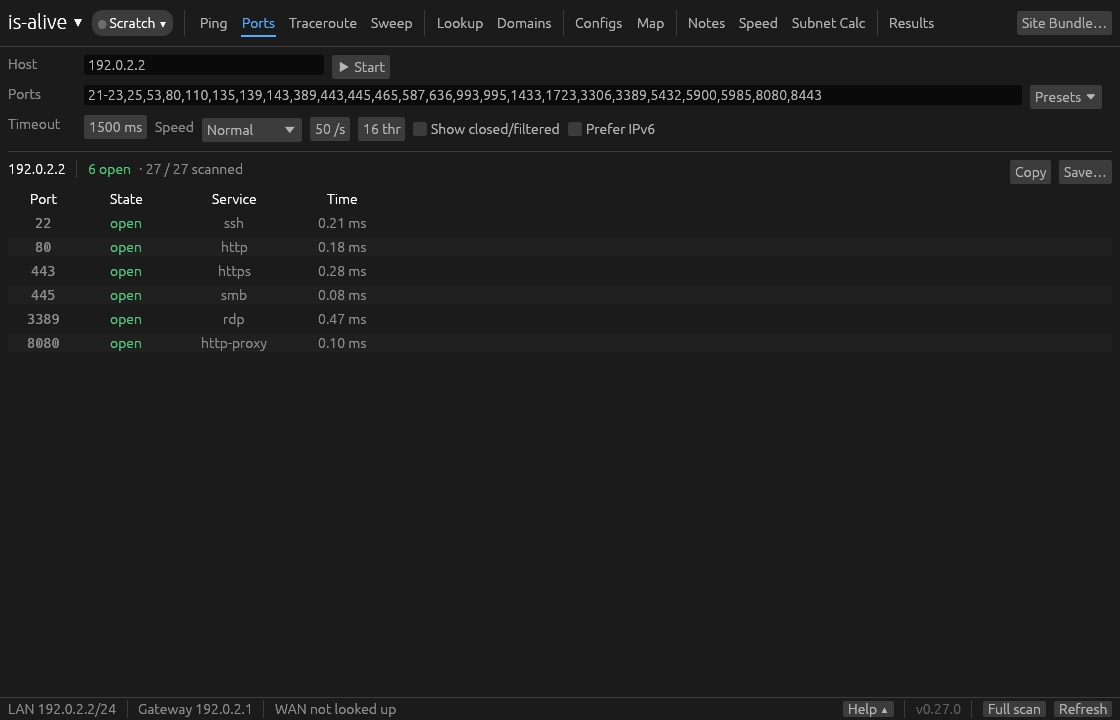
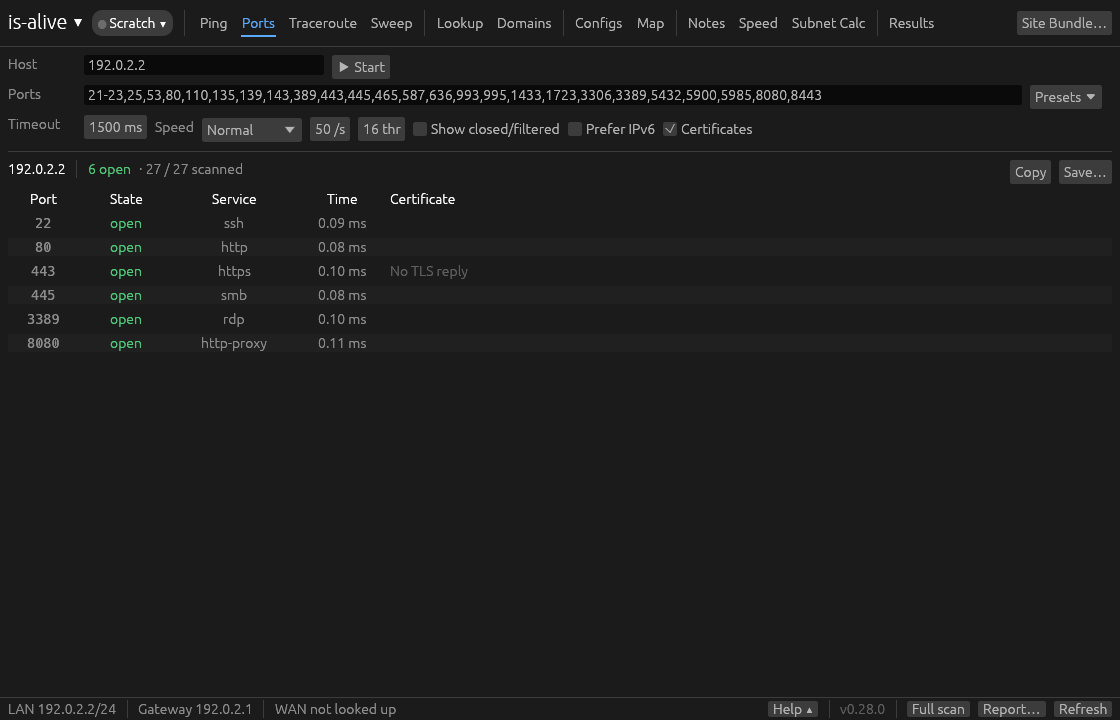
0.28.0: feature release: the manual's screenshots remade, the Site Report window among them
A full release for what 0.27.x shipped (sites, Wake-on-LAN, TLS
certificates in Ports, compare with the last visit, the Site report,
Results kept with each site, device names from NetBIOS and mDNS).

- Manual screenshots remade with scripts/manual-shots.sh --here: window,
  port-check (now with its Certificate column), traceroute, subnet-sweep,
  config-export and its empty state, the five map pictures, notes,
  subnet-calc, settings and site-bundle. The network pictures (ping,
  dns-lookup, advanced, speed-test, results) stay as they were: the cloud
  sandbox has no ping, DNS or speed test.
- New: site-report, a scene in the manual tour and a picture in the
  manual's Site report section, built into the app's manual.
- Version mentions: the manual describes 0.28.0; the follow-along guide
  says v0.28.0 or newer.
- CLAUDE.md: the owner keeps the source skills; Claude keeps the bundled
  copies current.

Claude-Session: https://claude.ai/code/session_01QL2rULS8HaDwNvJrFRJ8sb

diff --git a/src/shots.rs b/src/shots.rs
@@ -328,10 +328,19 @@ const MANUAL: &[Scene] = &[
         at_once,
     ),
     scene(
+        "site-report",
+        Tab::Map,
+        |a, _| {
+            a.bundle.open = false;
+            a.report.open = true;
+        },
+        at_once,
+    ),
+    scene(
         "map-light",
         Tab::Map,
         |a, ctx| {
-            a.bundle.open = false;
+            a.report.open = false;
             theme::apply(ctx, theme::Theme::Light);
         },
         at_once,

diff --git a/src/manual.rs b/src/manual.rs
@@ -38,6 +38,7 @@ const PICTURES: &[(&str, &[u8])] = pictures![
     "settings",
     "map-light",
     "site-bundle",
+    "site-report",
 ];
 
 pub struct Chapter {

diff --git a/docs/manual/MANUAL.md b/docs/manual/MANUAL.md
@@ -8,7 +8,7 @@ end.
 
 A field guide to **is-alive**, the portable network tester for site visits: what every tab does, what every control means, worked examples with real numbers, and what to do when something doesn't look right.
 
-This manual describes **is-alive 0.27.0**, and is built into the app: **Help** at the bottom right, then **Manual**, or **F1** for the chapter about the tab you're on. It works with no network. The [wiki](https://github.com/hammerknife404/is-alive/wiki) has a shorter page per tab, and the [follow-along guide](../../FOLLOW-ALONG.md) is a 20-minute walk-through for people new to networking.
+This manual describes **is-alive 0.28.0**, and is built into the app: **Help** at the bottom right, then **Manual**, or **F1** for the chapter about the tab you're on. It works with no network. The [wiki](https://github.com/hammerknife404/is-alive/wiki) has a shorter page per tab, and the [follow-along guide](../../FOLLOW-ALONG.md) is a 20-minute walk-through for people new to networking.
 
 ## Contents
 
@@ -162,7 +162,7 @@ A **Host** box (Ping, Port Check, Traceroute) takes any of these, so you can pas
 - **WAN** is the public address the internet sees for this network. It's looked up when the app opens (one DNS query to OpenDNS), on **Refresh**, and by a **Full scan**. If you turned that off in Settings it says *not looked up*.
 - **Help ▴** opens the Help menu. First what's built into the app, so it works with no network: **This tab** (the manual's chapter about the tab you're on; **F1** does the same), the whole **Manual**, **Troubleshooting**, and **Keyboard and mouse**. Then, online in your browser: the **Wiki**, the **Follow-along guide**, **Release notes**, **Report a problem** (a new GitHub issue with the version and system filled in; nothing is sent until you submit it there) and **Source on GitHub**.
 - **The manual** opens in a window over the tab: the chapters down the left, **Find** above them to list only the chapters that mention a word. Leave it open beside the tab while you work; **×** closes it.
-- **v0.25.0** is the version you're running: worth including when you report a problem.
+- **v0.28.0** is the version you're running: worth including when you report a problem.
 - **Full scan** runs a quick health check of this network (below).
 - **Report…** opens the [Site report](#site-report): one web page documenting the visit.
 - **Refresh** reads the LAN and gateway again and looks up the WAN address, for when you've plugged into a different network.
@@ -185,6 +185,8 @@ In under a minute you know whether a problem is this computer, the local network
 When every check is done and the sweep found something, the **Map** tab glows for a few seconds (its sweep is on the map now), then keeps a small ring until you open it. If the window is in the background, the glow waits until you come back to it. With **Animate** off (Settings) it lights up briefly instead of pulsing.
 
 ### Site report
+
+![The Site Report window over the Contoso Health example: the title, then Map, Findings, Changes since, Infrastructure, Clients, Tech notes and Test results, each saying what it holds, and Save report…](img/site-report.png)
 
 **Report…** (bottom right, beside **Full scan**) puts the visit on one web page: for the client, the ticket or the next technician. It's made from what the other tabs already hold, so a Full scan, a backup opened in Config Export and a few notes are enough for a complete document. It opens in any browser, and the browser's **Print → Save as PDF** makes the PDF.
 

diff --git a/CLAUDE.md b/CLAUDE.md
@@ -21,5 +21,5 @@ The owner wants point releases: each finished change ships on its own, not in a 
 
 - **Same PR.** A change to what a bundle carries or means updates `skills/` in that PR: a file in the zip, a manifest key, an `inventory.json` field or what one now holds (a MAC that can come from somewhere new), what `results.json` spans, or what is-alive reads back from a `/mapnetwork` map. Also update the matching `*_WHAT` text in `src/tools/bundle.rs` (the manifest's description of each file) and the inventory's `notes` in `src/tools/sweep.rs`.
 - **Tests hold the line.** `the_bundled_mapnetwork_skill_knows_every_file` (src/bundle.rs) fails when a bundle file or manifest key isn't named in `skills/mapnetwork/SKILL.md`, and the inventory test in src/tools/sweep.rs fails when a host field isn't. Explain new things there; don't loosen the tests. `skills/mapnetwork/scripts/test_engine_contract.py` (CI) covers the map engine.
-- **The source copy too.** `skills/` is a scrubbed copy that `scripts/sync-skills.py` makes from the owner's own skills, so an edit made only here is undone by the next sync. Hand the owner the same edits as a patch for the source skill (`git diff --relative=skills/<name> origin/main -- skills/<name>`), with the command to apply it.
+- **The bundled copies are Claude's to keep current; the owner keeps the source.** `skills/` is a scrubbed copy that `scripts/sync-skills.py` makes from the owner's own skills. The owner patches their source copy themselves; don't hand them patches for it unless they ask. If a sync brings older text back into `skills/`, the tests above fail: restore the bundled text from git (and point it out), don't loosen the tests.
 - **Scrub.** Text added to `skills/` is public: no real site, client or person names, no full MACs (fictional names and documentation addresses only).

diff --git a/FOLLOW-ALONG.md b/FOLLOW-ALONG.md
@@ -15,7 +15,7 @@ This guide is for anyone attending the is-alive demo. You don't need any technic
 3. Open it:
    - **Windows:** double-click `is-alive.exe`. If a blue box says *"Windows protected your PC"*, click **More info**, then **Run anyway**. Windows shows this for any new program that isn't from a large publisher.
    - **Linux:** right-click the file → **Properties** → **Permissions** → tick **Allow executing file as program**, then double-click it.
-4. Check the version: the bottom right corner of the window says `v0.24.0` (or newer), and so does the title bar.
+4. Check the version: the bottom right corner of the window says `v0.28.0` (or newer), and so does the title bar.
 5. If a green **Update: v…** link shows in that corner, a newer version is out. Clicking it opens the download page for that version; nothing is installed for you.
 
 > **Nothing opens, or the window stays blank?** See [If the window doesn't open](README.md#if-the-window-doesnt-open): what to try, and where the app writes down why.
